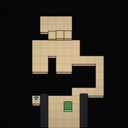
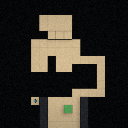
OK!

Changed region(s): [[0.2188, 0.0938, 0.8438, 1.0]]

diff --git a/public/play-render-three.js b/public/play-render-three.js
@@ -2175,7 +2175,7 @@
       }
 
       if (actor.type === "floating_floor") {
-        return "#7fb6db";
+        return "#d6bd94";
       }
 
       if (actor.type === "gem") {
@@ -3719,6 +3719,40 @@
       addEdgeLines(gem.geometry, gem.position, 1, fade * visibility);
     }
 
+    function addFloatingFloor(actor, center, elevation, scale, sink, fade, opacity, visibility, now) {
+      const hover = Math.max(0, app.floatingFloorHoverOffset(actor, now));
+      const width = unit * scale;
+      const depth = unit * scale;
+      const height = Math.max(4, unit * 0.32 * scale);
+      const bottomY = elevation * elevationUnit - sink + actorVisualLift + hover;
+      const topY = bottomY + height;
+      const actorBounds = {
+        gridX: actor.x,
+        gridY: actor.y,
+        left: center.x - width / 2,
+        right: center.x + width / 2,
+        top: center.z - depth / 2,
+        bottom: center.z + depth / 2
+      };
+
+      addTopRoundedCuboid(width, depth, height, shapeCornerRadius, actorRenderColor(actor), {
+        x: center.x,
+        y: topY,
+        z: center.z
+      }, {
+        opacity,
+        edgeOpacity: fade * visibility,
+        castShadow: renderContextCastsShadows(),
+        receiveShadow: false,
+        editorPick: {
+          kind: "actor",
+          cells: [actorBounds],
+          topY,
+          bottomY
+        }
+      });
+    }
+
     function addActor(actor, now = performance.now()) {
       if (!actorIsVisible(actor)) {
         return;
@@ -3741,6 +3775,11 @@
 
       if (actor.type === "gem") {
         addGem(actor, center.x, center.z, elevation, now);
+        return;
+      }
+
+      if (actor.type === "floating_floor") {
+        addFloatingFloor(actor, center, elevation, scale, sink, fade, opacity, visibility, now);
         return;
       }
 
@@ -4159,6 +4198,7 @@
           app.gateAnimationFrameId !== null ||
           app.orangeWallAnimationFrameId !== null ||
           app.playerLiftAnimationFrameId !== null ||
+          app.floatingFloorFrameId !== null ||
           debugCameraAnimationFrameId ||
           debugCameraTiltHoldFrameId
       );
@@ -4170,7 +4210,8 @@
           app.levelTransition ||
           app.gateAnimationFrameId !== null ||
           app.orangeWallAnimationFrameId !== null ||
-          app.playerLiftAnimationFrameId !== null
+          app.playerLiftAnimationFrameId !== null ||
+          app.floatingFloorFrameId !== null
       );
     }
 